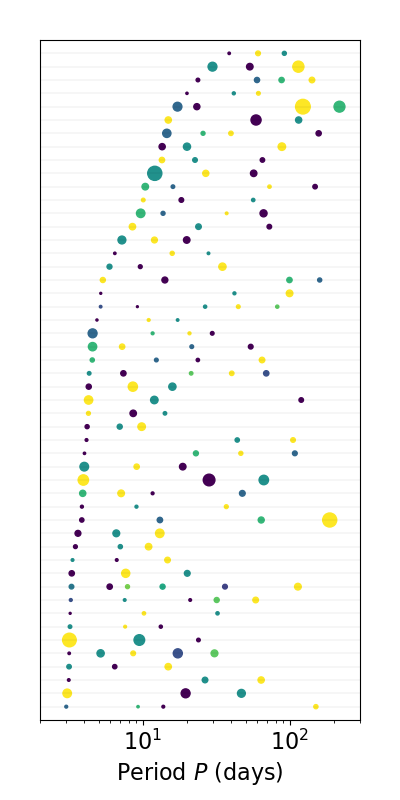
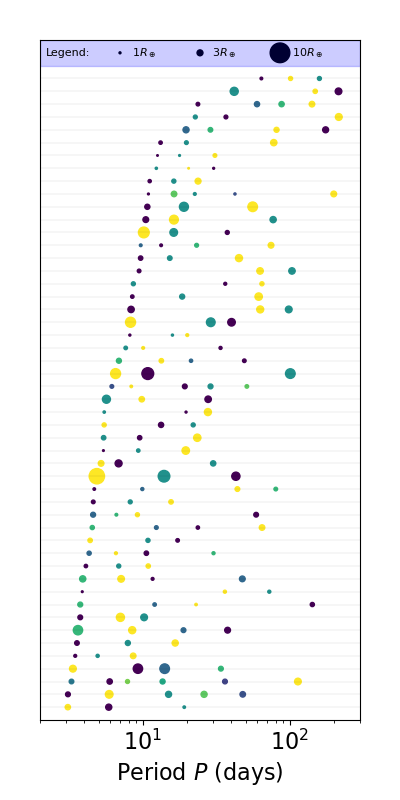
Update galleries tutorial and include legend in an example

diff --git a/docs/source/galleries.rst b/docs/source/galleries.rst
@@ -39,24 +39,28 @@ Here is a simple example using our function :py:func:`plot_figs_observed_systems
    :alt: Example gallery of 3+ systems
    :align: center
 
-This function can be applied to both simulated observed (e.g. ``sss_per_sys``) and Kepler-observed (e.g. ``ssk_per_sys``) catalogs. In this example, we have sorted the systems by the period of their inner-most planet, and included 50 systems in a single figure.
+This function can be applied to both simulated observed (e.g. ``sss_per_sys``) and Kepler-observed (e.g. ``ssk_per_sys``) catalogs. In this example, we have selected systems with at least three observed planets, sorted them by the period of their inner-most planet, and included 50 systems in a single figure.
 
 .. tip::
 
    You can change the number of systems, and/or the number of figures, plotted by varying the ``max_sys`` and ``sys_per_fig`` parameters. For example, setting ``max_sys=200`` and ``sys_per_fig=50`` will make four figures each showing 50 different systems (if there are enough systems with the required multiplicity in the catalog).
+
+   If there are more than ``max_sys`` systems satisfying the given criteria, the function will randomly sample a subset of these systems.
 
 The ``color_by`` parameter allows you to choose from a number of color schemes. For example, you can also the planets by their relative size order in each system (so all the smallest planets are one color, all the 2nd smallest planets are another color, etc.):
 
 .. code-block:: python
 
    # Plot a gallery with the planets colored by their size ordering:
-   plot_figs_observed_systems_gallery_from_cat_obs(sss_per_sys, sort_by='inner', n_min=3, color_by='size_order', max_sys=50, sys_per_fig=50)
+   plot_figs_observed_systems_gallery_from_cat_obs(sss_per_sys, sort_by='inner', n_min=3, color_by='size_order', legend=True, max_sys=50, sys_per_fig=50)
    plt.show()
 
 .. image:: images/example_gallery_colors_size.png
    :scale: 80 %
    :alt: Example gallery coloring by size order
    :align: center
+
+Here, we have also included a legend by setting ``legend=True``. This gives us a reference for the relative sizes of the planets!
 
 
 Sorting and labeling systems
@@ -106,3 +110,19 @@ There is a separate function for plotting galleries of physical systems, :py:fun
 In the left figure, we selected only systems with at least five planets (regardless of whether or not any planets are detected) and colored them by their cluster id's, so planets with the same color were drawn from the same "cluster".
 
 In the right figure, we selected systems with at least two detected planets and marked all undetected planets with red outlines using the ``mark_det=True`` option.
+
+
+More customizations
+-------------------
+
+While the two functions demonstrated above (one for plotting observed systems, another for plotting physical systems) provide many useful options for plotting galleries, you may wish to make versions of these figures that are outside the scope of what can be accomplished by these two functions. You can achieve some additional flexibility by using the function :py:func:`plot_figs_systems_gallery <syssimpyplots.plot_catalogs.plot_figs_systems_gallery>` directly, which is called by both of the previous functions. For example, you may wish to plot along semi-major axes instead of orbital period for the x-axis, use planet masses instead of radii for setting the relative sizes of the points, sort the systems in a special way, provide a custom set of systems, etc... the possibilities are endless!
+
+
+Other ways of plotting catalogs
+-------------------------------
+
+There are many other functions in the `syssimpyplots.plot_catalogs module <https://github.com/hematthi/SysSimPyPlots/blob/main/src/syssimpyplots/plot_catalogs.py>`_ for visualizing catalogs, some of which have been used to characterize other correlations in the planetary systems generated by our models.
+
+.. warning::
+
+   Many of these functions are currently undocumented (they do not show up in the detailed API) and are not meant for flexible use -- use them at your own risk!
